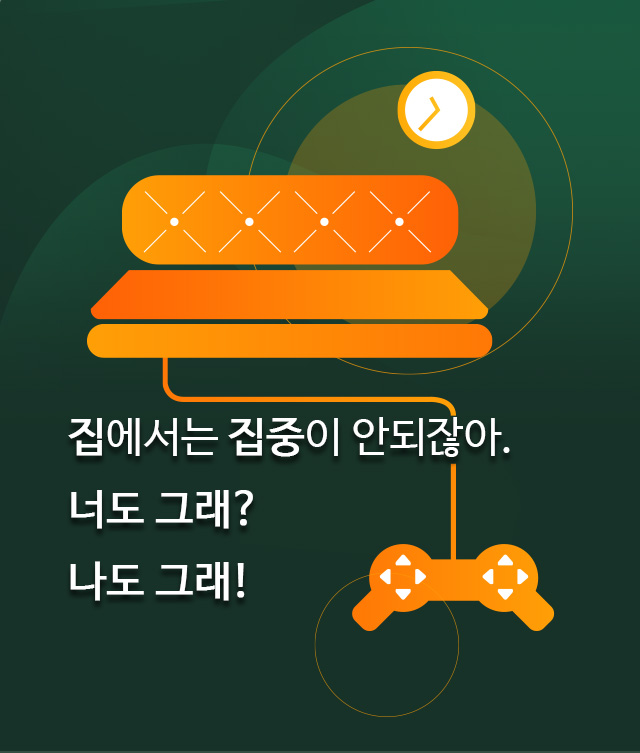
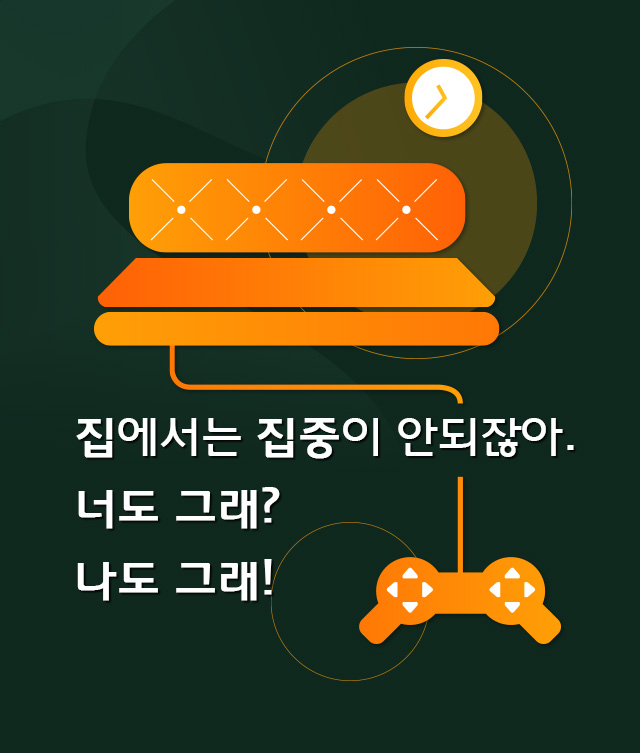
인트로 - 메인 수정

diff --git a/front/src/static/scss/_intro.scss b/front/src/static/scss/_intro.scss
@@ -1,19 +1,20 @@
 .intro {
-    background-color: #fff;
+    background-color: #0f281e;
 
     .page-content {padding-top: 0;}
 
-    .swiper-container {height: calc(64vh + 20px);  background-color: #fff;}
-    .swiper-wrapper {height:60vh; margin-bottom: 2vh;}
+    .swiper-container {height: calc(64vh + 20px);  background-color: #0f281e;}
+    .swiper-wrapper {height:60vh; margin-bottom: 1vh;}
+    .swiper-slide {height: 94%;}
     .swiper-pagination-bullets {bottom: unset;}
-    .swiper-pagination-bullet {width: 12px; height: 12px; margin: 0 8px !important;}
+    .swiper-pagination-bullet {width: 10px; height: 10px; margin: 0 8px !important; background-color: #346b62;}
+    .swiper-pagination-bullet-active {background-color: #fff;}
 
-    .logo {padding-bottom: 5vh; text-align: center;
-          img {height: 10vh;}
+    .block { margin-top: 10px;}
+    .logo {padding-bottom: 4vh; text-align: center;
+          i { color: #02834e; font-size: 80px; }
     }
-
-    .js-start {width: 56vw; height: 7vh; margin: 0 auto; font-size: 3.4vh; background-color: #ffb100;}
-
+    .js-start {width: 56vw; height: 8vh; margin: 0 auto; font-size: 3.4vh; background-color: #ffb100; border: 5px solid #fff;}
     .button {font-weight: bold;}
 
 }
@@ -31,37 +32,37 @@
                 .row > .col {-ms-flex-preferred-size: 0; flex-basis: 0; -ms-flex-positive: 1; flex-grow: 1; max-width: 100%; padding-left: 15px;}
                 .row > .col:first-child {padding-left: 0px;}
                 .h-100 {height: 100% !important;}
-                .mw-100 {max-width: 100% !important;}
+                .mw-100 {max-width: 90% !important;}
                 .mb-4, .my-4 {margin-bottom: 20px !important;}
                 .mx-auto {margin-left: auto; margin-right: auto;}        
             }
         }
 
         .g1 {
+            background: transparent linear-gradient(180deg, #0c634c 0%, #0f281e 100%) 0% 0% no-repeat padding-box;
+            background: transparent -moz-linear-gradient(-90deg, #0c634c 0%, #0f281e 100%) 0% 0% no-repeat padding-box;
+            background: transparent -webkit-linear-gradient(-90deg, #0c634c 0%, #0f281e 100%) 0% 0% no-repeat padding-box;
+            color: #ffffff;	    
+        }
+        .g2 {
             background: transparent linear-gradient(180deg, #23a171 0%, #173228 100%) 0% 0% no-repeat padding-box;
             background: transparent -moz-linear-gradient(-90deg, #23a171 0%, #173228 100%) 0% 0% no-repeat padding-box;
             background: transparent -webkit-linear-gradient(-90deg, #23a171 0%, #173228 100%) 0% 0% no-repeat padding-box;
             color: #ffffff;	    
-        }
-        .g2 {
-            background: transparent linear-gradient(180deg, #5ED0FB 0%, #14379A 100%) 0% 0% no-repeat padding-box;
-            background: transparent -moz-linear-gradient(-90deg, #5ED0FB 0%, #14379A 100%) 0% 0% no-repeat padding-box;
-            background: transparent -webkit-linear-gradient(-90deg, #5ED0FB 0%, #14379A 100%) 0% 0% no-repeat padding-box;
-            color: #ffffff;
-        }
+        }        
         .overflow-hidden {overflow: hidden; position: relative;}
 
         .swiper-pagination {padding: 0 20px 0 20px; padding: 0 calc(env(safe-area-inset-right) + 20px) 0 calc(env(safe-area-inset-left) + 20px);}
-        .swiper-pagination {bottom: 38px;}
+        .swiper-pagination {bottom: 15%;}
         .swiper-pagination-bullet {border-radius: 3px; width: 20px; height: 6px;}
         .bullets-white .swiper-pagination-bullet {background-color: #ffffff;}
     }
     
     .text-uppercase {text-transform: uppercase !important;}
-    .button {
-        border-radius: 35px; font-size: 14px; font-weight: 500; line-height: 24px; padding: 10px 15px; height: auto; width: auto; display: inline-block;
-        vertical-align: middle; text-align: center;
-    }
+    // .button {
+    //     border-radius: 35px; font-size: 14px; font-weight: 500; line-height: 24px; padding: 10px 15px; height: auto; width: auto; display: inline-block;
+    //     vertical-align: middle; text-align: center;
+    // }
     .button-large {padding: 15px 25px;}
     .button-fab {position: absolute; z-index: 9;}
     .button-fab.right-bottom {position: absolute; right: 20px; right: calc(env(safe-area-inset-right) + 20px); bottom: 20px;}
@@ -69,6 +70,12 @@
 
     .bg-gradient-cyan {color: #ffffff;}
     .button-fab.right-bottom {position: absolute; right: 20px; right: calc(env(safe-area-inset-right) + 20px); bottom: 20px;}
+
+    .intro-btn {
+        background-color: #ffffff; border-radius: 35px; font-size: 16px; font-weight:bold; line-height: 24px; padding: 15px 25px; color: #0f291f;
+        width: 92%; height: auto; display: block; text-align: center; position: absolute; z-index: 9; bottom: 5%;
+        i {position: absolute; right: 15px; top: 15px; max-width: 24px; font-size: 24px;}
+    }
     
     
 }

diff --git a/front/src/pages/main/intro_.html b/front/src/pages/main/intro_.html
@@ -5,7 +5,7 @@
             <div class="navbar-bg"></div>
             <div class="navbar-inner sliding">
                 <div class="left">
-                    logo
+                    <i class="icon-icon-logo-1" style="padding-left: calc(env(safe-area-inset-left) + 10px); padding-top: 30px; font-size: 5vh; color: #fff;"></i>
                 </div>
             </div>
         </div>
@@ -20,10 +20,10 @@
                     <div class="swiper-slide overflow-hidden text-white g1">
                         <div class="row no-gutters h-100">
                             <div class="col align-self-center text-align-center">
-                                <img src="img/turtle.png" alt="" class="mw-100 mx-auto mb-4">
-                                <br><br>
+                                <img src="../static/images/intro/img1-1.png" alt="" class="mw-100 mx-auto mb-4">
+                                <!-- <br><br>
                                 <h2 class="text-uppercase font-weight-light">타이틀1</h2>
-                                <p class="text-mute">설명</p>
+                                <p class="text-mute">설명</p> -->
                             </div>
                         </div>
                     </div>
@@ -31,43 +31,34 @@
 
                         <div class="row no-gutters h-100">
                             <div class="col align-self-center text-align-center">
-                                <img src="img/turtle.png" alt="" class="mw-100 mx-auto mb-4">
-                                <br><br>
-                                <h2 class="text-uppercase font-weight-light">타이틀2</h2>
-                                <p class="text-mute">설명</p>
+                                <img src="../static/images/intro/img2-1.png" alt="" class="mw-100 mx-auto mb-4">                                
                             </div>
                         </div>
                     </div>
                     <div class="swiper-slide overflow-hidden text-white g1">
                         <div class="row no-gutters h-100">
                             <div class="col align-self-center text-align-center">
-                                <img src="img/turtle.png" alt="" class="mw-100 mx-auto mb-4">
-                                <br><br>
-                                <h2 class="text-uppercase font-weight-light">타이틀3</h2>
-                                <p class="text-mute">설명</p>
+                                <img src="../static/images/intro/img3-1.png" alt="" class="mw-100 mx-auto mb-4">                                
                             </div>
                         </div>
                     </div>
                     <div class="swiper-slide overflow-hidden text-white g2">
                         <div class="row no-gutters h-100">
                             <div class="col align-self-center text-align-center">
-                                <img src="img/turtle.png" alt="" class="mw-100 mx-auto mb-4">
-                                <br><br>
-                                <h2 class="text-uppercase font-weight-light">타이틀4</h2>
-                                <p class="text-mute">설명</p>
+                                <img src="../static/images/intro/img4-1.png" alt="" class="mw-100 mx-auto mb-4">                                
                             </div>
                         </div>
                     </div>
                 </div>
                 <!-- Pagination, if required -->
-                <div class="swiper-pagination bullets-white text-align-left"></div>
+                <div class="swiper-pagination bullets-white"></div>
             </div>
-            <a href="/auth/login/" class="button button-light button-large button-fab right-bottom text-uppercase">Login <i class="material-icons vm"></i></a>
+            <a href="/auth/login/" class="button intro-btn margin-horizontal">시작하기 <i class="icon-arrow_right"></i></a>
         </div>
     </div>
 </template>
 <style scoped>
-
+    .navbar .left i {padding-left: calc(env(safe-area-inset-left) + 20px); padding-top: 25px; font-size: 5vh; color: #fff;}
 </style>
 <script>
     return {

diff --git a/front/src/pages/member/login.html b/front/src/pages/member/login.html
@@ -1,8 +1,8 @@
 <!-- component template -->
 <template>
-    <div class="page color-theme-green">
+    <div class="page">
         <div class="page-content login-screen-content">
-            <div class="login-screen-title">로그인</div>
+            <div class="login-screen-title"><i class="icon-icon-logo-3"></i></div>
             <form id="login-form">
                 <div class="list">
                     <ul>
@@ -42,10 +42,16 @@
 
 <style scoped>
     .page-content {
-        background-color: #1b2924;
+        /* background-color: #1b2924;
         background-image: url(../static/images/member/login_bg.jpg);
-        background-size: cover; 
+        background-size: cover; */
+        background: transparent linear-gradient(180deg, #0c634c 0%, #0f281e 100%) 0% 0% no-repeat padding-box;
+        background: transparent -moz-linear-gradient(-90deg, #0c634c 0%, #0f281e 100%) 0% 0% no-repeat padding-box;
+        background: transparent -webkit-linear-gradient(-90deg, #0c634c 0%, #0f281e 100%) 0% 0% no-repeat padding-box;
+        color: #ffffff;	
     }
+    .login-screen-title {margin: 10vh 0 5vh;}
+    .login-screen-title i {font-size: 26vh;}
     .list {width: 84%;}
     .item-label {margin-bottom: 8px; color: #fff;}
     .item-input-focused .item-label {color: #ffcc00;}    

diff --git a/front/src/static/scss/_custom_ui.scss b/front/src/static/scss/_custom_ui.scss
@@ -6,6 +6,7 @@
 :root {
   --f7-button-fill-bg-color: #397E43;
   --f7-button-fill-pressed-bg-color: #469852;
+  --f7-bars-bg-color: #0c624b;
 }
 
 /** icon */
@@ -65,7 +66,13 @@ label.item-checkbox>.icon-checkbox {
 }
 
 //navbar 
-.navbar-current {z-index: 10 !important;}
+.navbar {z-index: 10 !important; color: #fff;
+  .navbar-bg {background-color: #0c624b;}
+  .navbar-bg::after {display:none;}
+  .navbar-bg::before {display:none;}
+}
+
+
 
 //button
 .button-circle {
@@ -92,3 +99,4 @@ label.item-checkbox>.icon-checkbox {
 
 //picker
 .picker-center-highlight {border-top: 1px solid #a7a7a7; border-bottom: 1px solid #a7a7a7;}
+

diff --git a/front/src/pages/main/intro.html b/front/src/pages/main/intro.html
@@ -19,7 +19,7 @@
             </div>
             <div class="block">
                 <div class="logo">
-                    <img alt="concentable" src="../static/images/sample-logo.png" />
+                    <i class="icon-icon-logo-1"></i>
                 </div>
                 <button type="button"
                         class="col button button-fill button-round js-start"
